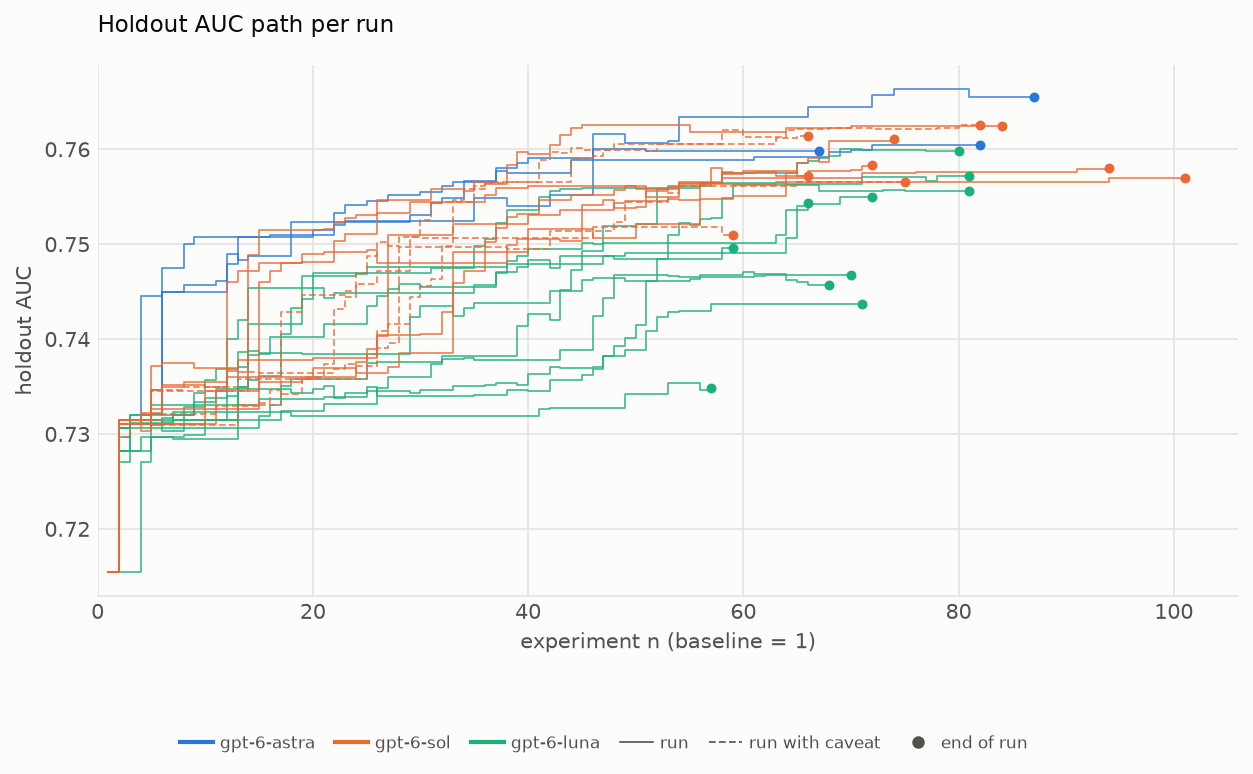
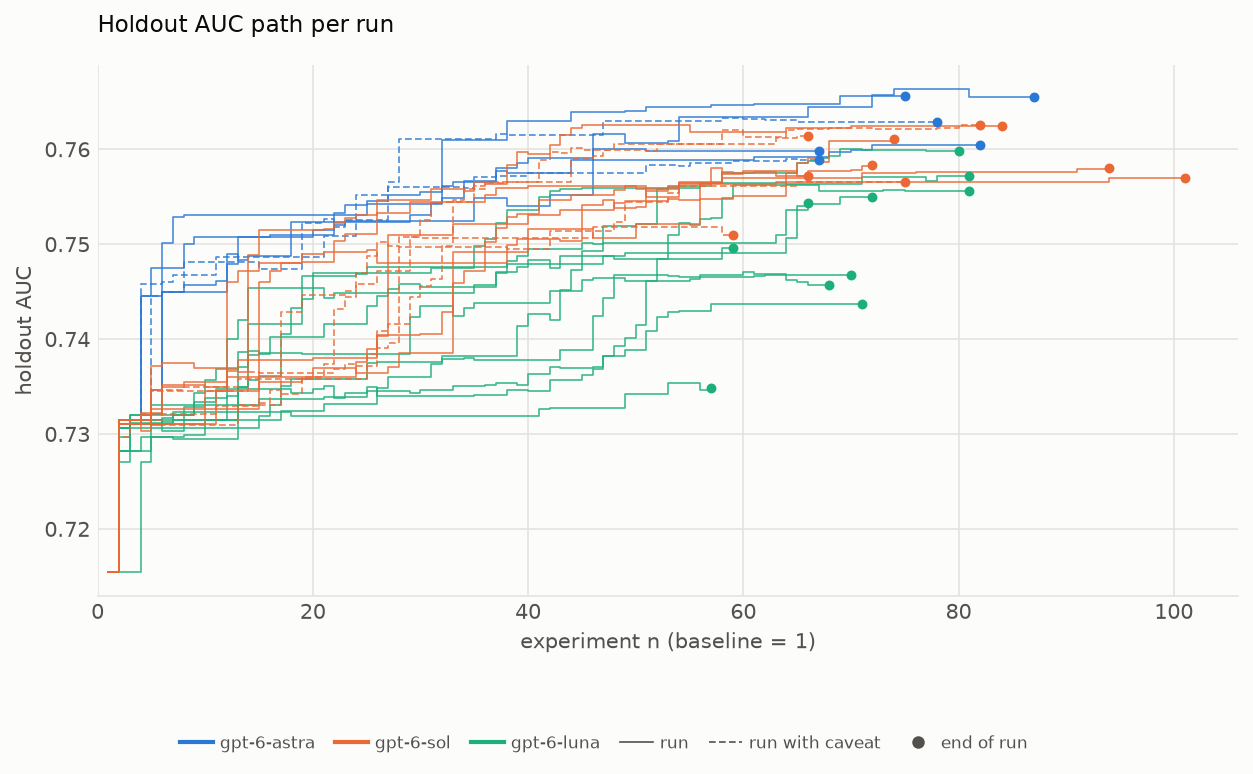
Update plots (astra runs 1-6) and the sentences they affect

diff --git a/docs/index.md b/docs/index.md
@@ -16,7 +16,7 @@ The task is the same as before: predict whether a flight will be delayed, using 
 
 <img src="holdout_auc.png" style="width: 700px">
 
-The first plot shows the final holdout AUC of each run (higher is better; the starter model scores 0.7155). Each dot is the best model of one 2-hour run, and the black dot with whiskers marks each LLM's mean with its 90% confidence interval (hollow dots are four sol runs in which the agent glanced at a file it was not supposed to read; their results are in line with the rest). On average the three LLMs rank clearly: astra comes first, then sol, then luna. But the runs of each LLM are spread widely. The gap between luna's best and worst run is about 0.025 AUC, more than half of the typical improvement the agents achieve over the starter model; sol's range is about half of that. The ranges also overlap: luna's best run beats sol's worst run and is on par with astra's weaker runs. If we had compared the three LLMs based on a single run each, we could easily have ranked them wrong. Reassuringly, in every run the holdout score closely tracks the score the agent was optimizing, so the improvements are real and not overfitting.
+The first plot shows the final holdout AUC of each run (higher is better; the starter model scores 0.7155). Each dot is the best model of one 2-hour run, and the black dot with whiskers marks each LLM's mean with its 90% confidence interval (hollow dots mark runs in which the agent glanced at a file it was not supposed to read; their results are in line with the rest). On average the three LLMs rank clearly: astra comes first, then sol, then luna. But the runs of each LLM are spread widely. The gap between luna's best and worst run is about 0.025 AUC, more than half of the typical improvement the agents achieve over the starter model; sol's range is about half of that. The ranges also overlap: luna's best run beats the worst runs of both sol and astra. If we had compared the three LLMs based on a single run each, we could easily have ranked them wrong. Reassuringly, in every run the holdout score closely tracks the score the agent was optimizing, so the improvements are real and not overfitting.
 
 <img src="holdout_auc_path.png" style="width: 700px">
 
